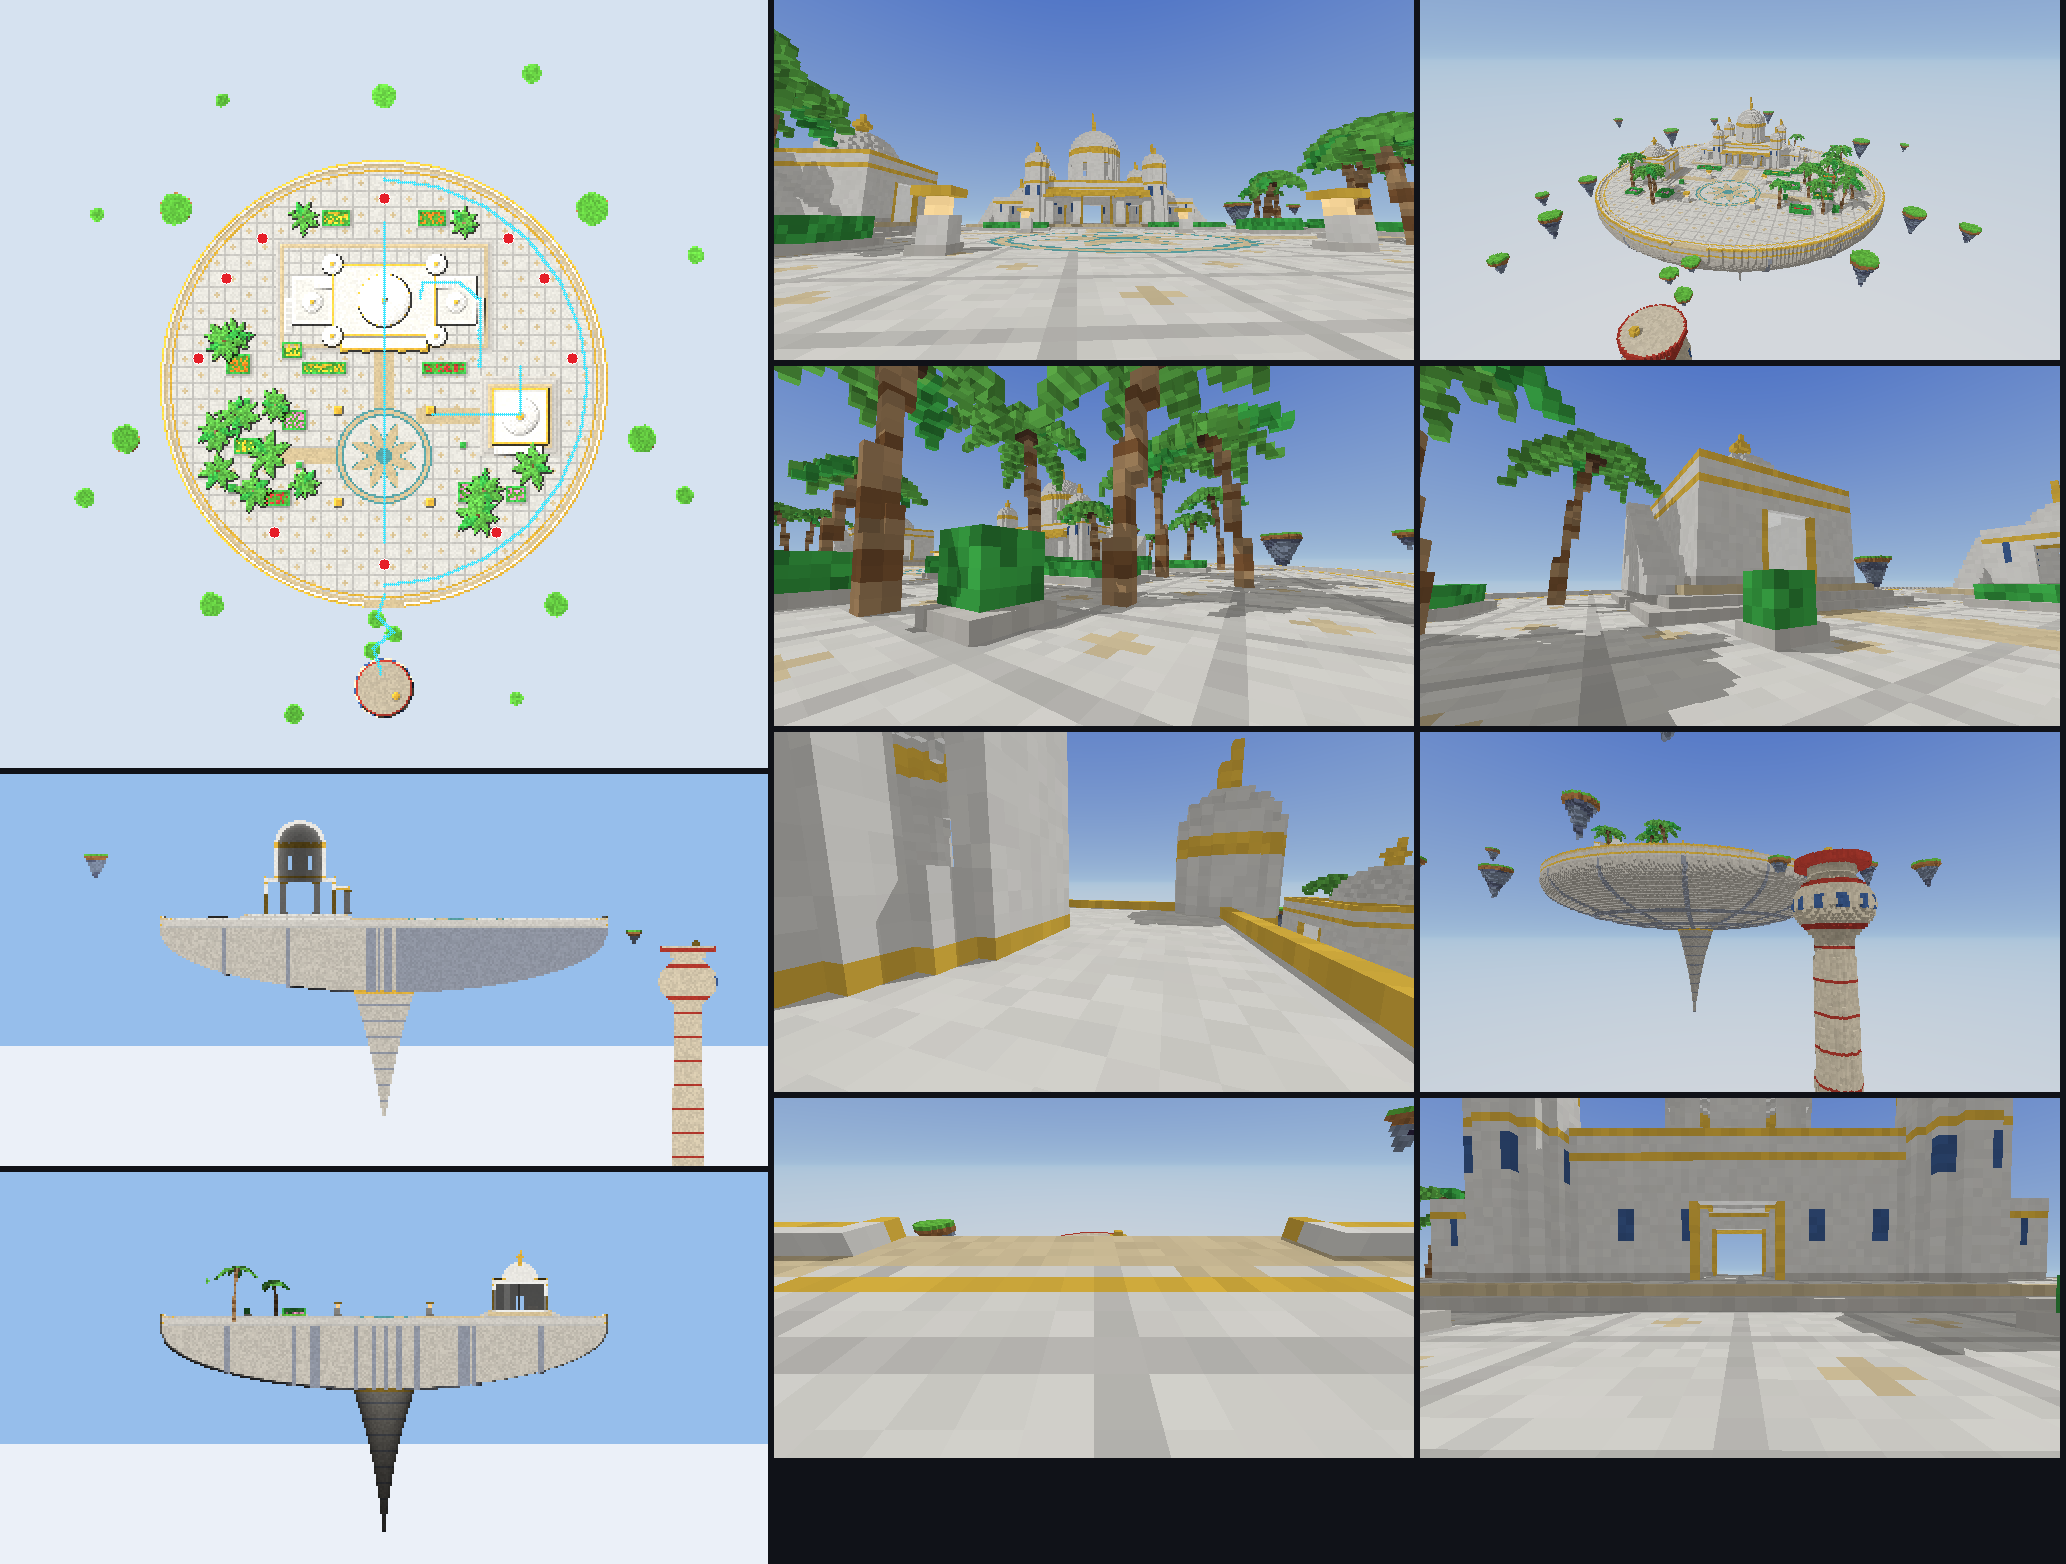
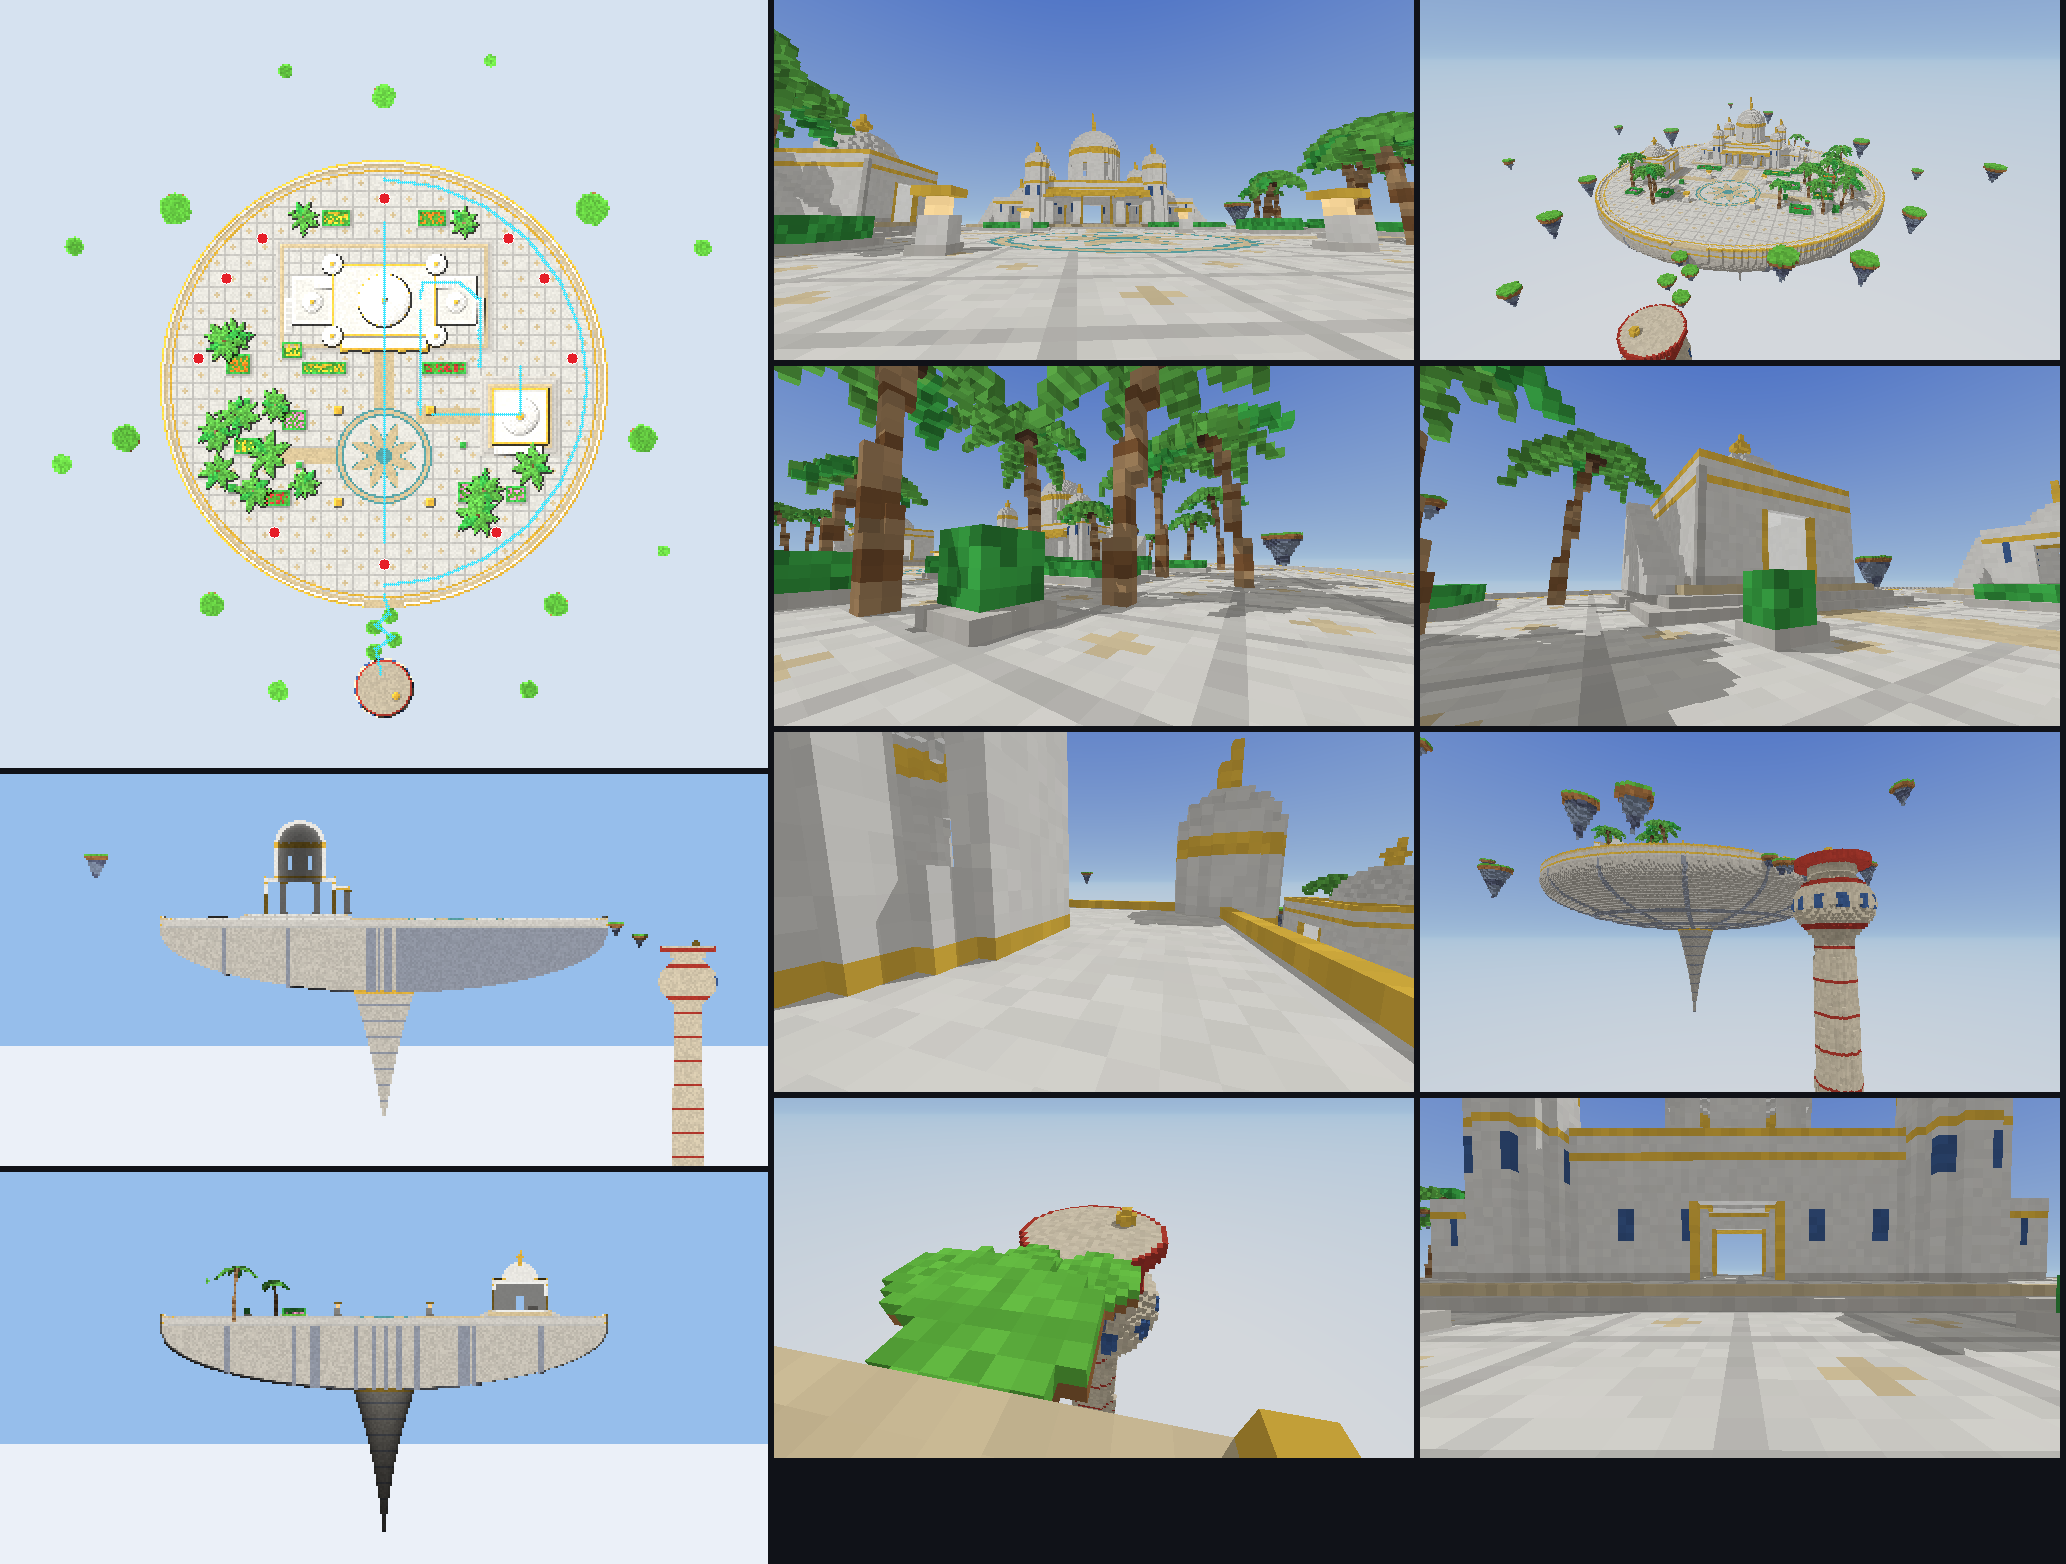
Menu feel: last-used device owns focus (a resting mouse never steals keyboard/pad focus), sliders / toggle switches / segmented pickers for every knob, key repeat, pad nav, click feedback

diff --git a/crates/bd_game/src/present/powers/movefx/mod.rs b/crates/bd_game/src/present/powers/movefx/mod.rs
@@ -32,7 +32,7 @@ pub mod draw;
 pub mod table;
 mod dev;
 
-use self::draw::{Look, Pen, basis, circle, light_limb, rigid_pole, rubber_limb, zig};
+use self::draw::{Look, Pen, basis, circle, light_limb, mix3, rigid_pole, rubber_limb, zig};
 use self::table::{Body, Cue, MoveFx};
 use super::super::sound::Sfx3d;
 use super::super::{PresentSet, bv, corps_rgb, gv};
@@ -668,6 +668,13 @@ fn start(
                 first_pose.get_or_insert(pose);
                 continue;
             }
+            // An all-round flurry (Spin Attack, Cyclone Slash, Waterfowl Dance): a sweeping arc
+            // round the caster per strike, the finisher a full bright circle + a ground ring.
+            if let MoveOp::Barrage { hits, interval, range, angle, .. } = *op
+                && angle >= 170.0
+            {
+                spin_arcs(&mut pen, &look, me, v.pos, range.clamp(1.0, 8.0), hits.clamp(1, 24), interval.clamp(0.03, 1.0));
+            }
             // TOOLBOX content ops present through the classic beat they read as (no allocation:
             // plain value variants).
             let alias = alias_op(op);
@@ -914,6 +921,36 @@ fn start(
         }
     }
     side.clear();
+}
+
+/// Sweeping arcs round `c` (one per strike, `interval` apart, alternating direction), then a full
+/// circle + a ground ring on the last: GPU particles with a start delay (no beat state).
+fn spin_arcs(pen: &mut Pen, look: &Look, c: Vec3, feet: Vec3, r: f32, hits: u8, interval: f32) {
+    use bd_fx::{Emit, PFlags};
+    let n = 22;
+    for k in 0..hits as u32 {
+        let last = k + 1 == hits as u32;
+        let sgn = if k % 2 == 0 { 1.0 } else { -1.0 };
+        let span = if last { std::f32::consts::TAU } else { 4.4 };
+        let a0 = k as f32 * 2.1;
+        let h = c + Vec3::Y * (0.15 * sgn - 0.2);
+        for i in 0..n {
+            let f = i as f32 / (n - 1) as f32;
+            let a = a0 + sgn * span * f;
+            let d = Vec3::new(a.cos(), 0.0, a.sin());
+            let tan = Vec3::new(-a.sin(), 0.0, a.cos()) * sgn;
+            let delay = k as f32 * interval + f * 0.09;
+            let col = mix3(look.core, look.main, 0.25 + 0.5 * (1.0 - f));
+            pen.put(Emit { flags: PFlags::STRETCH | PFlags::PLAIN, pos: h + d * r, vel: tan * r * 9.0, size: (0.07 + 0.08 * f) * look.size * if last { 1.4 } else { 1.0 }, color: col, emissive: look.glow * if last { 2.2 } else { 1.5 }, life: 0.16, gravity: 0.0, drag: 7.0, spin: 5.0, delay, ..default() });
+        }
+        if last {
+            for i in 0..28 {
+                let a = i as f32 / 28.0 * std::f32::consts::TAU;
+                let d = Vec3::new(a.cos(), 0.0, a.sin());
+                pen.put(Emit { flags: PFlags::STRETCH | PFlags::PLAIN, pos: feet + Vec3::Y * 0.1 + d * 0.4, vel: d * r * 3.5, size: 0.07 * look.size, color: mix3(look.core, look.main, 0.5), emissive: look.glow * 1.5, life: 0.35, gravity: 0.0, drag: 2.2, spin: 3.0, delay: k as f32 * interval, ..default() });
+            }
+        }
+    }
 }
 
 fn bt_shove(t: &table::MoveFxTable) -> f32 {

diff --git a/docs/readability/menu_audit.md b/docs/readability/menu_audit.md
@@ -22,7 +22,7 @@ it — so focus jumped back to wherever the mouse happened to sit.
 | Wheel moved the *cursor* (and then hover snapped it back) | Wheel scrolls the **view**; focus is dragged along only as far as needed to stay visible (`nav::wheel`). Wheel over a slider adjusts that slider. |
 | Bare numbers ("80%", "0.85") that players had to ask how to change | **Sliders** (track + fill + handle + readout; click-to-jump, drag, wheel, ←/→, d-pad) for every continuous / wide numeric setting: volumes, sensitivity (log track: 1.0 mid), ADS sensitivity / zoom speed, FOV, outline thickness, head size, camera shake / FOV kicks / landing dip / screen flashes / vignette, sparks (3–12, tick marks), lives, KOs to win, time limit, respawn, spawn shield, knockback, gravity, gas regen, construct caps (… → UNLIMITED notch), party rounds / KOs / time / points / pick timer. |
 | ON / OFF read as text | **Toggle switch** (→ on, ← off, click / Enter flips). |
-| 2–4 named options hidden behind arrow-cycling | **Segmented control** — every option visible, chosen one lit, click any (view, shoulder, ADS mode, comic text / style, shout words, reduce flashes, enemy %, AA, mode, preset, scoring, construct size, willpower, caps, held / worn…). Long lists (map, corps, accent) are pickers with clickable ‹ › arrows. |
+| 2–4 named options hidden behind arrow-cycling | **Segmented control** — every option visible, chosen one lit, click any (view, shoulder, ADS mode, comic text / style, shout words, reduce flashes, enemy %, music style, mode, preset, scoring, construct size, willpower, caps, held / worn…). Long lists (map, corps, accent) are pickers with clickable ‹ › arrows. |
 | Knobs added later wouldn't get a control | Controls are **derived**: known numeric ranges come from `widgets::spec`; anything else is enumerated by stepping a scratch copy, so a new ON/OFF knob becomes a toggle, 2–4 options a segmented control, a long clamped stepper a slider — automatically. All changes still go through `step_knob` (values, clamps, save/load, host sync unchanged; tests pin slider ends to the stepper clamps). |
 | Single-press only; long ranges tedious | Held ↑/↓/←/→ (and d-pad / stick) **repeat with acceleration** (~8/s → ~28/s); long holds on a slider take bigger steps. Held ↑/↓ stops at the list ends (a fresh press still wraps). |
 | Dead zones between rows | Row hit areas cover the 4 px gaps. Picker arrows have padded hit boxes. |
